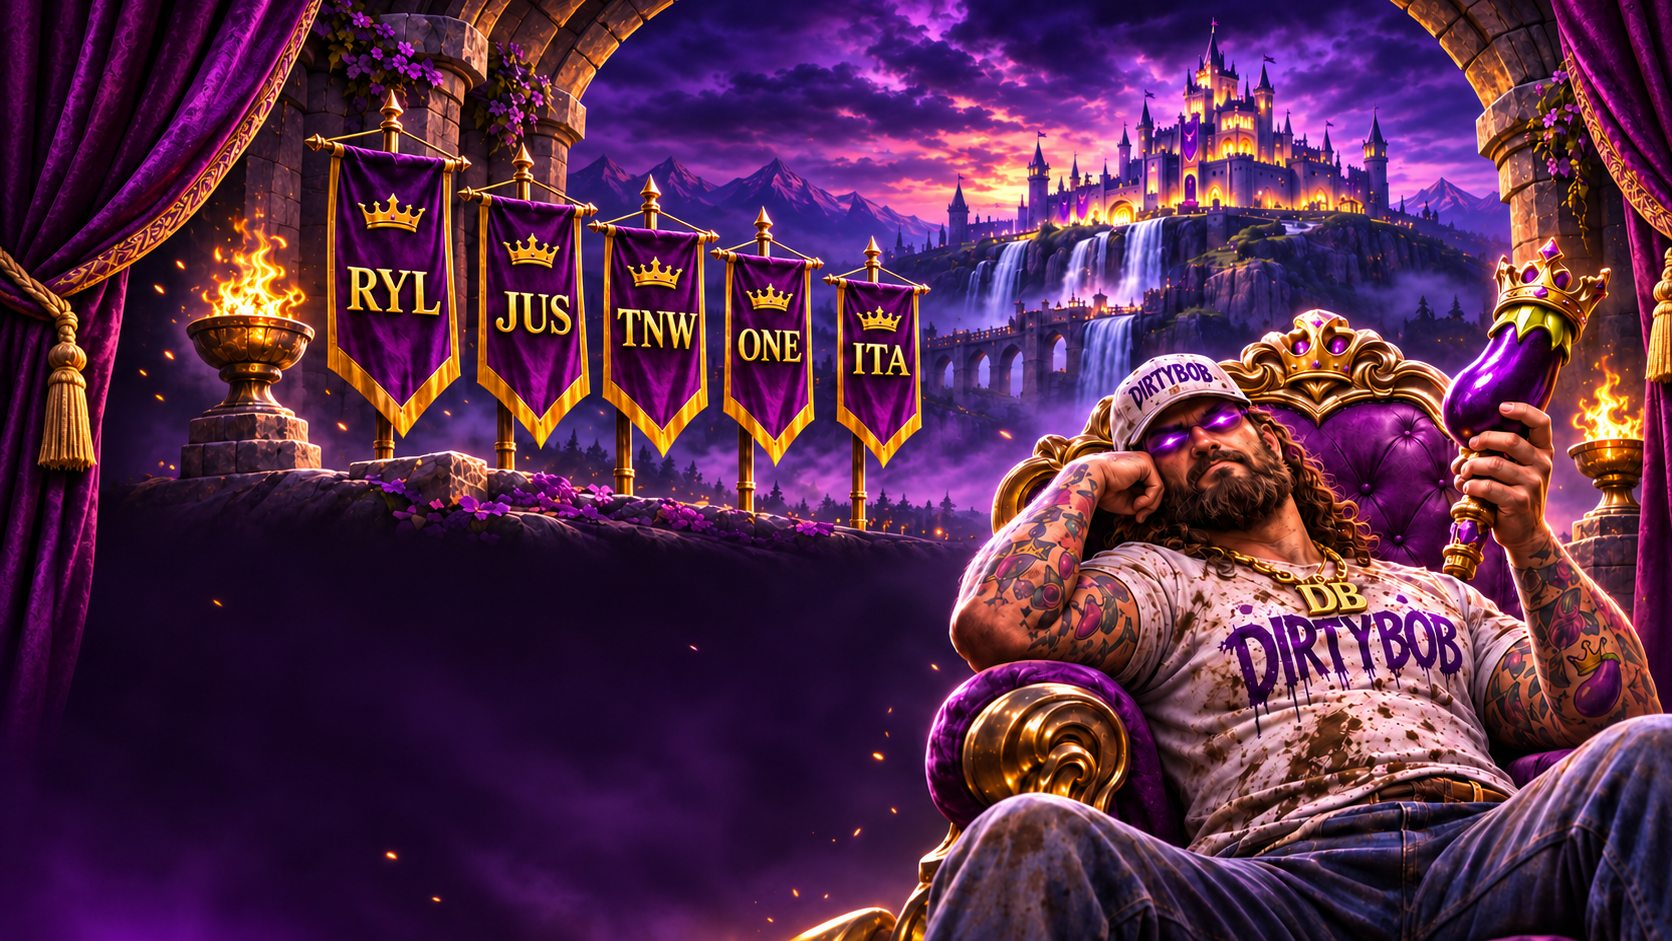
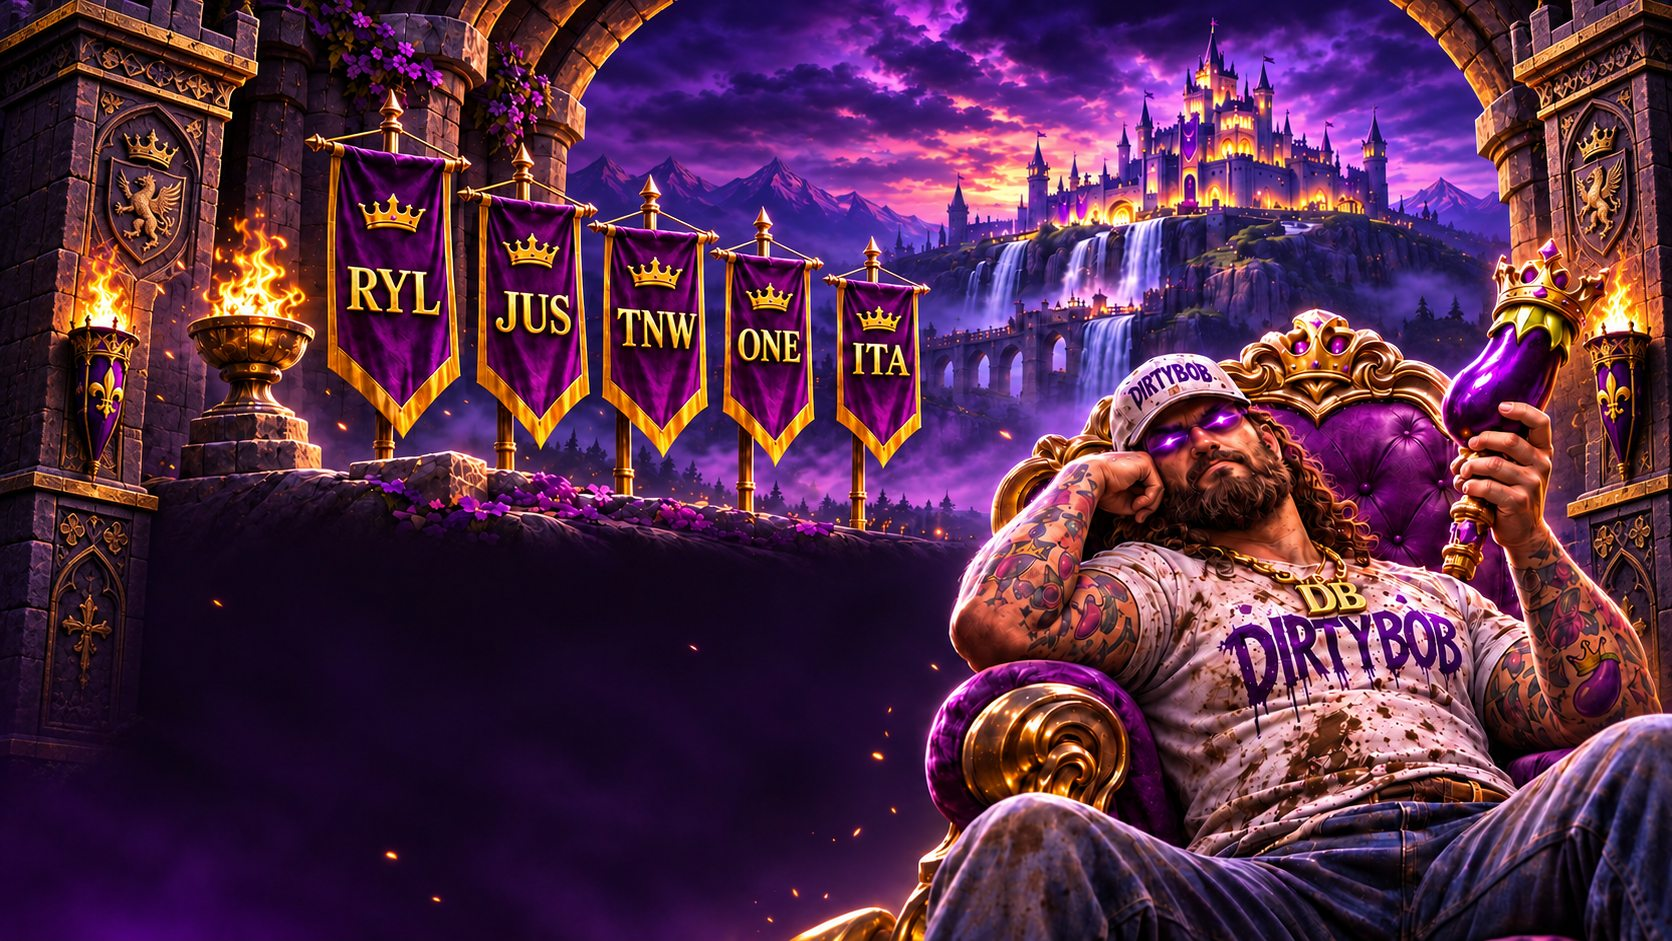
gate

diff --git a/assets/css/intro.css b/assets/css/intro.css
@@ -133,8 +133,8 @@ body.kingdom-intro { color: #fff; }
 .intro-embers i:nth-child(11) { --x: 67%; --size: 3px; --duration: 7.3s; --delay: 5s; }
 .intro-embers i:nth-child(12) { --x: 46%; --size: 2px; --duration: 5.4s; --delay: 3.4s; }
 
-/* K167 seal is centered on the curtain seam at the start. */
-.intro-seal { position: absolute; z-index: 30; top: 50%; left: 50%; display: grid; width: 104px; height: 116px; place-content: center; color: #f9d982; text-align: center; border: 1px solid rgba(249, 217, 130, .85); background: linear-gradient(145deg, rgba(86, 30, 115, .96), rgba(13, 7, 19, .98)); clip-path: polygon(0 0, 100% 0, 100% 76%, 50% 100%, 0 76%); box-shadow: 0 0 40px rgba(179, 75, 226, .7), inset 0 0 20px rgba(255, 214, 132, .17); opacity: 0; transform: translate(-50%, -50%) scale(.86); }
+/* K167 seal is centered on the gate seam at the start. */
+.intro-seal { position: absolute; z-index: 30; top: 50%; left: 50%; display: grid; width: 112px; height: 112px; place-content: center; color: #f9d982; text-align: center; border: 2px solid #e8c16e; border-radius: 50%; background: radial-gradient(circle, #532a65 0, #21162b 61%, #0d0911 100%); box-shadow: 0 0 0 8px rgba(21, 14, 25, .58), 0 0 0 10px rgba(232, 193, 110, .58), 0 0 42px rgba(179, 75, 226, .62), inset 0 0 20px rgba(255, 214, 132, .17); opacity: 0; transform: translate(-50%, -50%) scale(.86); }
 .intro-seal span { font: 34px Georgia, serif; line-height: .9; }
 .intro-seal b { margin-top: 5px; font: 800 15px Georgia, serif; letter-spacing: .1em; }
 .intro-playing .intro-seal { animation: seal-flash 1.35s ease .1s forwards; }
@@ -203,10 +203,17 @@ body.kingdom-intro { color: #fff; }
   .intro-stage { width: 100%; height: 100%; }
   .intro-scene img { object-position: center center; }
   .intro-shade { background: linear-gradient(0deg, rgba(8, 4, 13, .68), transparent 34%); }
-  .intro-gate-door { width: 52%; }
-  .intro-gate-door::before { background: repeating-linear-gradient(90deg, rgba(8, 3, 13, .57) 0, rgba(8, 3, 13, .57) 8%, rgba(174, 86, 212, .2) 18%, rgba(42, 12, 59, .12) 33%, rgba(5, 2, 8, .42) 48%); }
+  .intro-gate-door { top: auto; bottom: auto; width: 100%; height: 51%; }
+  .intro-gate-door-left { top: 0; left: 0; right: 0; border-right-width: 7px; border-bottom: 2px solid #e2bc78; }
+  .intro-gate-door-right { right: 0; bottom: 0; left: 0; border-top: 2px solid #e2bc78; border-left-width: 7px; }
+  .intro-gate-door-left::after { top: auto; right: 0; bottom: 0; left: 0; width: 100%; height: 8px; background: linear-gradient(180deg, #5b3c24, #f0cf8e 42%, #704722 72%, #2a1e1d); }
+  .intro-gate-door-right::after { top: 0; right: 0; bottom: auto; left: 0; width: 100%; height: 8px; background: linear-gradient(180deg, #5b3c24, #f0cf8e 42%, #704722 72%, #2a1e1d); }
+  .intro-playing .intro-gate-door-left { animation-name: gate-open-top; }
+  .intro-playing .intro-gate-door-right { animation-name: gate-open-bottom; }
+  .intro-revealed .intro-gate-door-left { transform: translateY(-103%); }
+  .intro-revealed .intro-gate-door-right { transform: translateY(103%); }
   .intro-skip { top: max(16px, env(safe-area-inset-top)); right: 16px; padding: 9px 10px; font-size: 9px; }
-  .intro-seal { width: 85px; height: 95px; }
+  .intro-seal { width: 85px; height: 85px; }
   .intro-seal span { font-size: 29px; }
   .intro-copy { right: 18px; bottom: max(24px, env(safe-area-inset-bottom)); left: 18px; width: auto; text-align: center; }
   .intro-kicker { margin-bottom: 7px; font-size: 9px; letter-spacing: .2em; }
@@ -225,10 +232,15 @@ body.kingdom-intro { color: #fff; }
 
 @media (prefers-reduced-motion: reduce) {
   .intro-scene img, .intro-flame, .intro-embers i { animation: none !important; }
-  .intro-playing .intro-gate-door-left, .intro-playing .intro-gate-door-right { animation: none !important; transform: translateX(-103%); }
-  .intro-playing .intro-gate-door-right { transform: translateX(103%); }
+  .intro-playing .intro-gate-door-left, .intro-revealed .intro-gate-door-left { animation: none !important; transform: translateX(-103%); }
+  .intro-playing .intro-gate-door-right, .intro-revealed .intro-gate-door-right { animation: none !important; transform: translateX(103%); }
   .intro-playing .intro-seal, .intro-playing .intro-kicker, .intro-playing .intro-copy h1,
   .intro-playing .intro-tagline, .intro-playing .intro-enter, .intro-playing .intro-footnote { animation: none !important; opacity: 1; transform: none; }
   .intro-seal { display: none; }
+}
+
+@media (max-width: 700px) and (prefers-reduced-motion: reduce) {
+  .intro-playing .intro-gate-door-left, .intro-revealed .intro-gate-door-left { transform: translateY(-103%); }
+  .intro-playing .intro-gate-door-right, .intro-revealed .intro-gate-door-right { transform: translateY(103%); }
 }
 

diff --git a/README.md b/README.md
@@ -15,7 +15,7 @@ A static Kingshot community site designed for GitHub Pages. It uses plain HTML, 
 - `assets/css/style.css` — existing site styles plus the shared Dirtybob theme and responsive components
 - `assets/js/main.js` — existing shared kingdom behaviour
 - `assets/dirtybob-kingdom.jpg` — wide entry and dashboard key art
-- `assets/css/intro.css` and `assets/js/intro.js` — responsive cinematic entry screen and curtain reveal
+- `assets/css/intro.css` and `assets/js/intro.js` — responsive cinematic entry screen and stone-gate reveal
 - `assets/intro-desktop.jpg`, `assets/intro-ipad.jpg`, `assets/intro-phone.jpg` — art plates composed for each screen size
 - `assets/swordland-summit.jpg`, `assets/alliance-brawl.jpg`, `assets/prep-week.jpg` — event banner artwork
 
